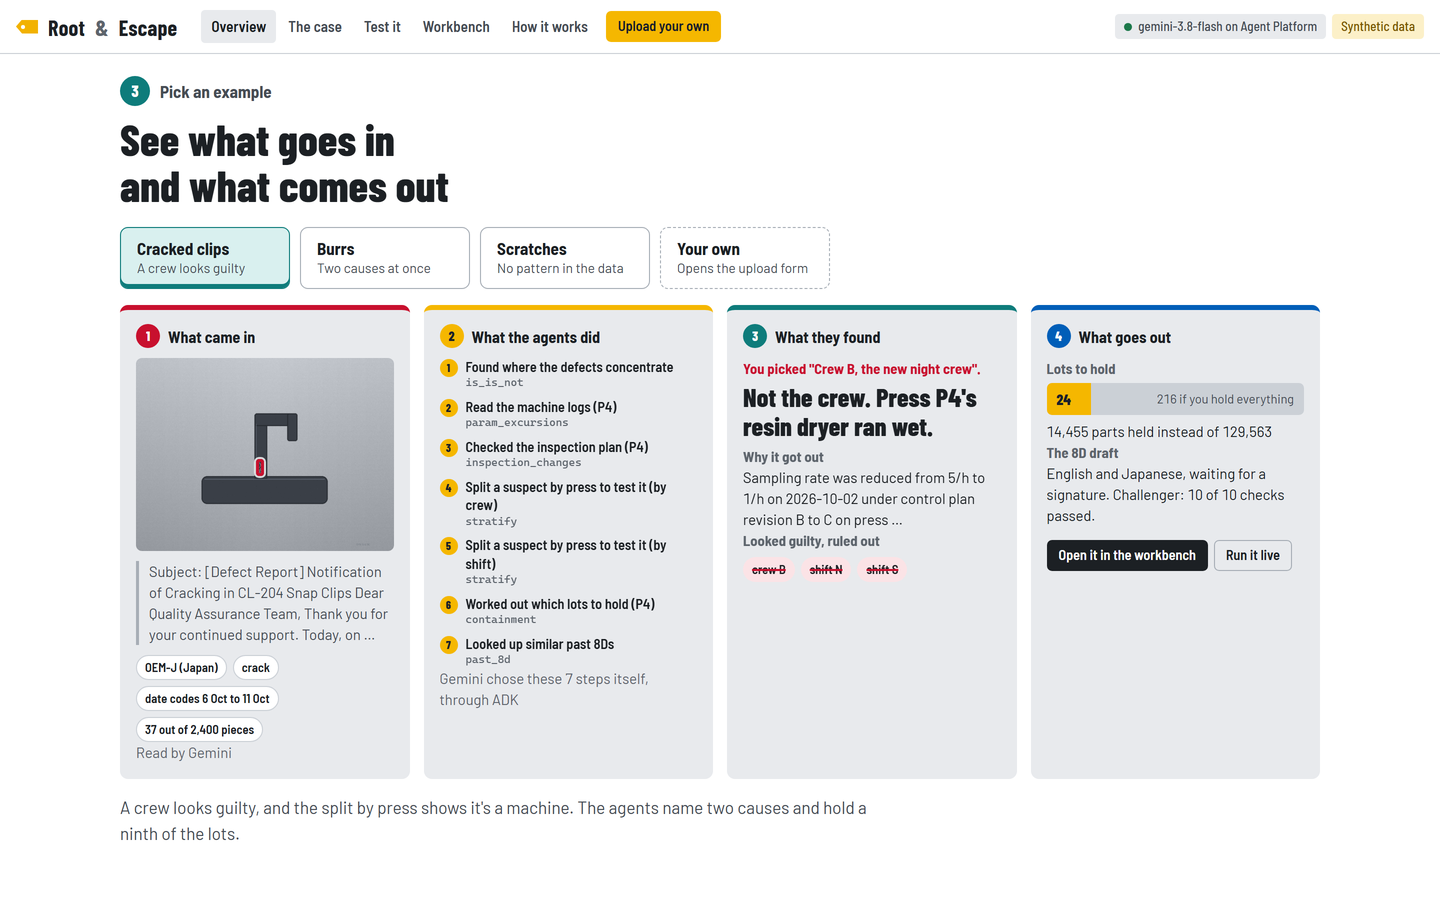
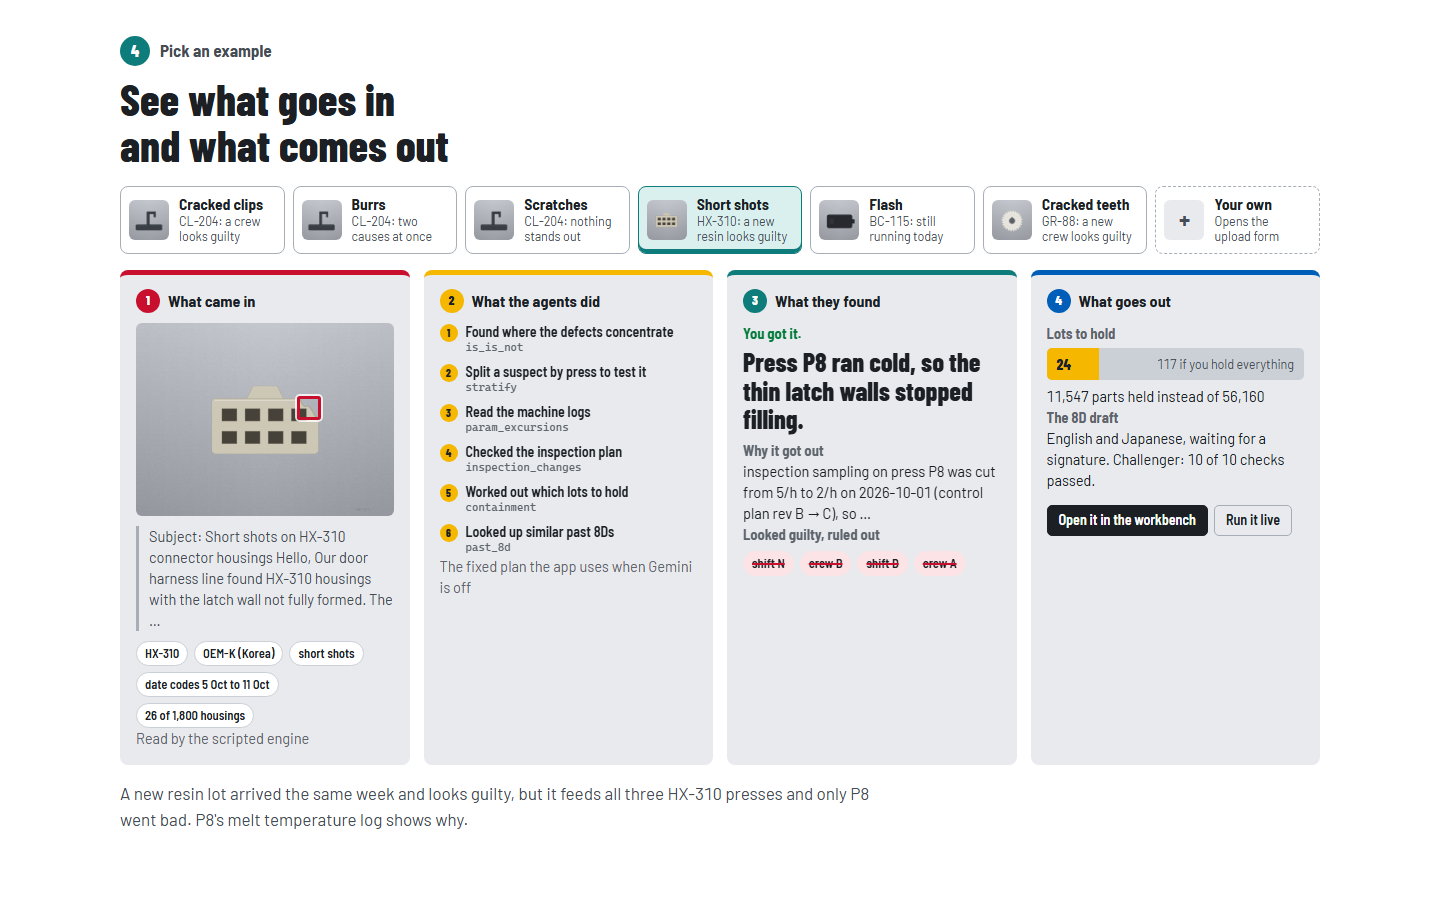
Read short shots from the email, and list the new sample emails
"Latch wall not fully formed" now counts as a short shot when the form reads
an email. The overview lists the three new parts' sample emails, the sample
pack is rebuilt, and the README has fresh screenshots of the four parts, the
example tabs and the Google Cloud panel. SKIP_WARMUP=1 redeploys without
spending Gemini runs.

diff --git a/web/index.html b/web/index.html
@@ -341,14 +341,17 @@
           <h3>No files? Use these</h3>
           <p class="small muted">Download one, then drop it on the upload form.</p>
           <ul>
-            <li><a href="/static/samples/complaint_ja_cracks.txt" download>Japanese email, cracked clips</a><span>expect press P4</span></li>
-            <li><a href="/static/samples/complaint_en_burrs.txt" download>English email, burrs</a><span>expect P2, cavity C3</span></li>
-            <li><a href="/static/samples/complaint_en_scratches.txt" download>English email, scratches</a><span>expect no cause</span></li>
+            <li><a href="/static/samples/complaint_en_cracks.txt" download>CL-204 clips, cracked</a><span>expect press P4</span></li>
+            <li><a href="/static/samples/complaint_en_burrs.txt" download>CL-204 clips, burrs</a><span>expect P2, cavity C3</span></li>
+            <li><a href="/static/samples/complaint_en_hx310_short_shots.txt" download>HX-310 housings, short shots</a><span>expect press P8</span></li>
+            <li><a href="/static/samples/complaint_en_bc115_flash.txt" download>BC-115 covers, flash</a><span>expect press P11</span></li>
+            <li><a href="/static/samples/complaint_en_gr88_cracks.txt" download>GR-88 gears, cracked teeth</a><span>expect press P14</span></li>
+            <li><a href="/static/samples/complaint_en_scratches.txt" download>CL-204 clips, scratches</a><span>expect no cause</span></li>
             <li><a href="/static/samples/complaint_hidden_instruction.txt" download>A hidden instruction</a><span>expect no blame</span></li>
             <li><a href="/static/samples/complaint_ja_cracks.eml" download>The Japanese email as .eml</a><span>email file</span></li>
             <li><a href="/static/photos/real_crack.jpg" download>Photo of a real crack</a><span>JPEG</span></li>
           </ul>
-          <a class="btn amber" href="/static/samples/root-and-escape-samples.zip" download>Download all 14 files (zip)</a>
+          <a class="btn amber" href="/static/samples/root-and-escape-samples.zip" download>Download all 21 files (zip)</a>
         </div>
       </div>
     </div>
@@ -565,7 +568,7 @@
   <form id="new-form" method="dialog">
     <div class="up-head">
       <h2 id="new-h">Upload your own complaint</h2>
-      <p class="small muted">Only you can see the case you create. No files handy? <a href="/static/samples/root-and-escape-samples.zip" download>Download the sample pack</a> (10 emails and 4 photos), or <button class="link" id="f-example" type="button">fill in an example</button>.</p>
+      <p class="small muted">Only you can see the case you create. No files handy? <a href="/static/samples/root-and-escape-samples.zip" download>Download the sample pack</a> (13 emails and 7 photos), or <button class="link" id="f-example" type="button">fill in an example</button>.</p>
     </div>
     <div class="up-grid">
       <section class="up-step" aria-labelledby="up1">

diff --git a/web/app.js b/web/app.js
@@ -494,7 +494,7 @@
 
   // The date codes and the defect type are usually written in the email itself, so the form fills them in.
   const DEFECT_WORDS = [
-    ["short_shot", /short[ -]?shots?|ショートショット|未充填|미성형/i],
+    ["short_shot", /short[ -]?shots?|incomplete (?:fill|walls?)|not fully (?:formed|filled)|unfilled|ショートショット|未充填|미성형/i],
     ["burr", /\bburrs?\b|\bflash\b|バリ|bavure|gerinda/i],
     ["scratch", /scratch|傷|キズ|스크래치|긁힘|รอยขีดข่วน|खरोंच|goresan|xước/i],
     ["crack", /crack|割れ|クラック|균열|รอยแตก|दरार|retak|nứt/i],
